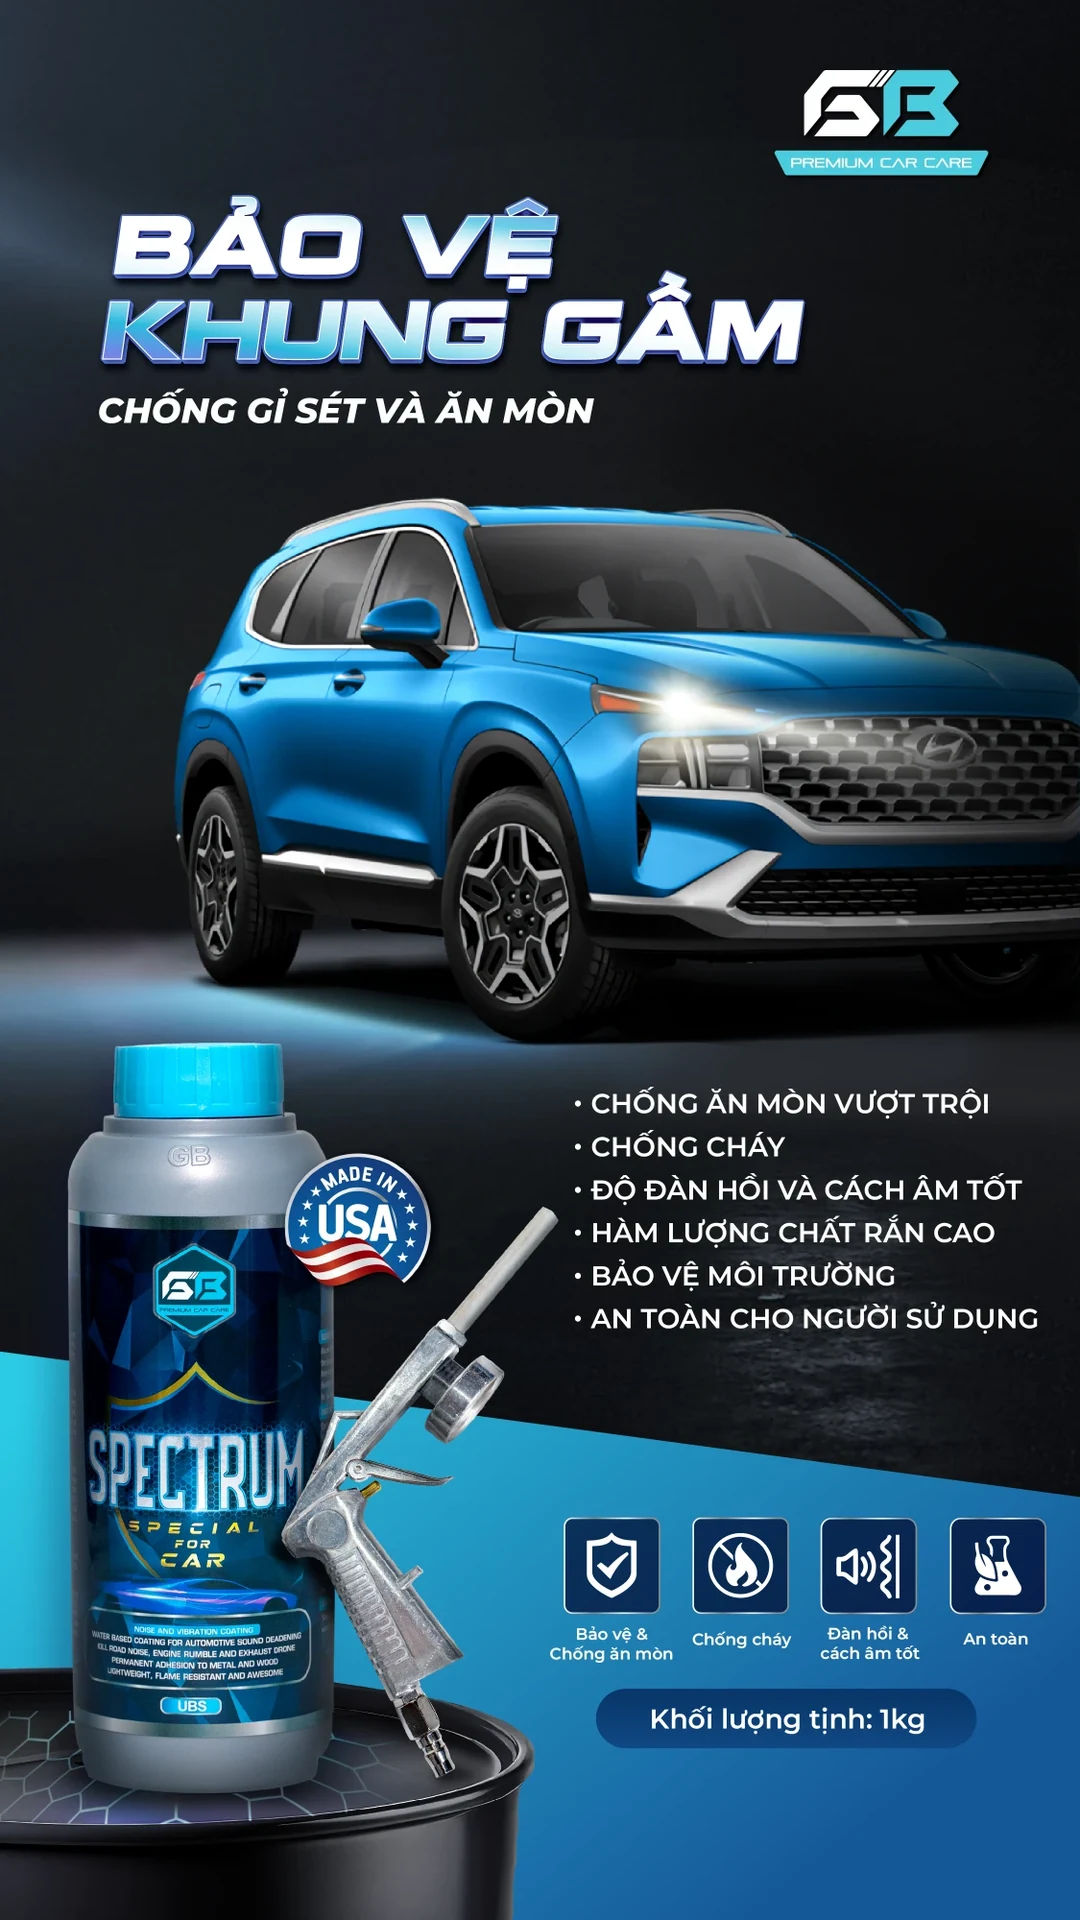
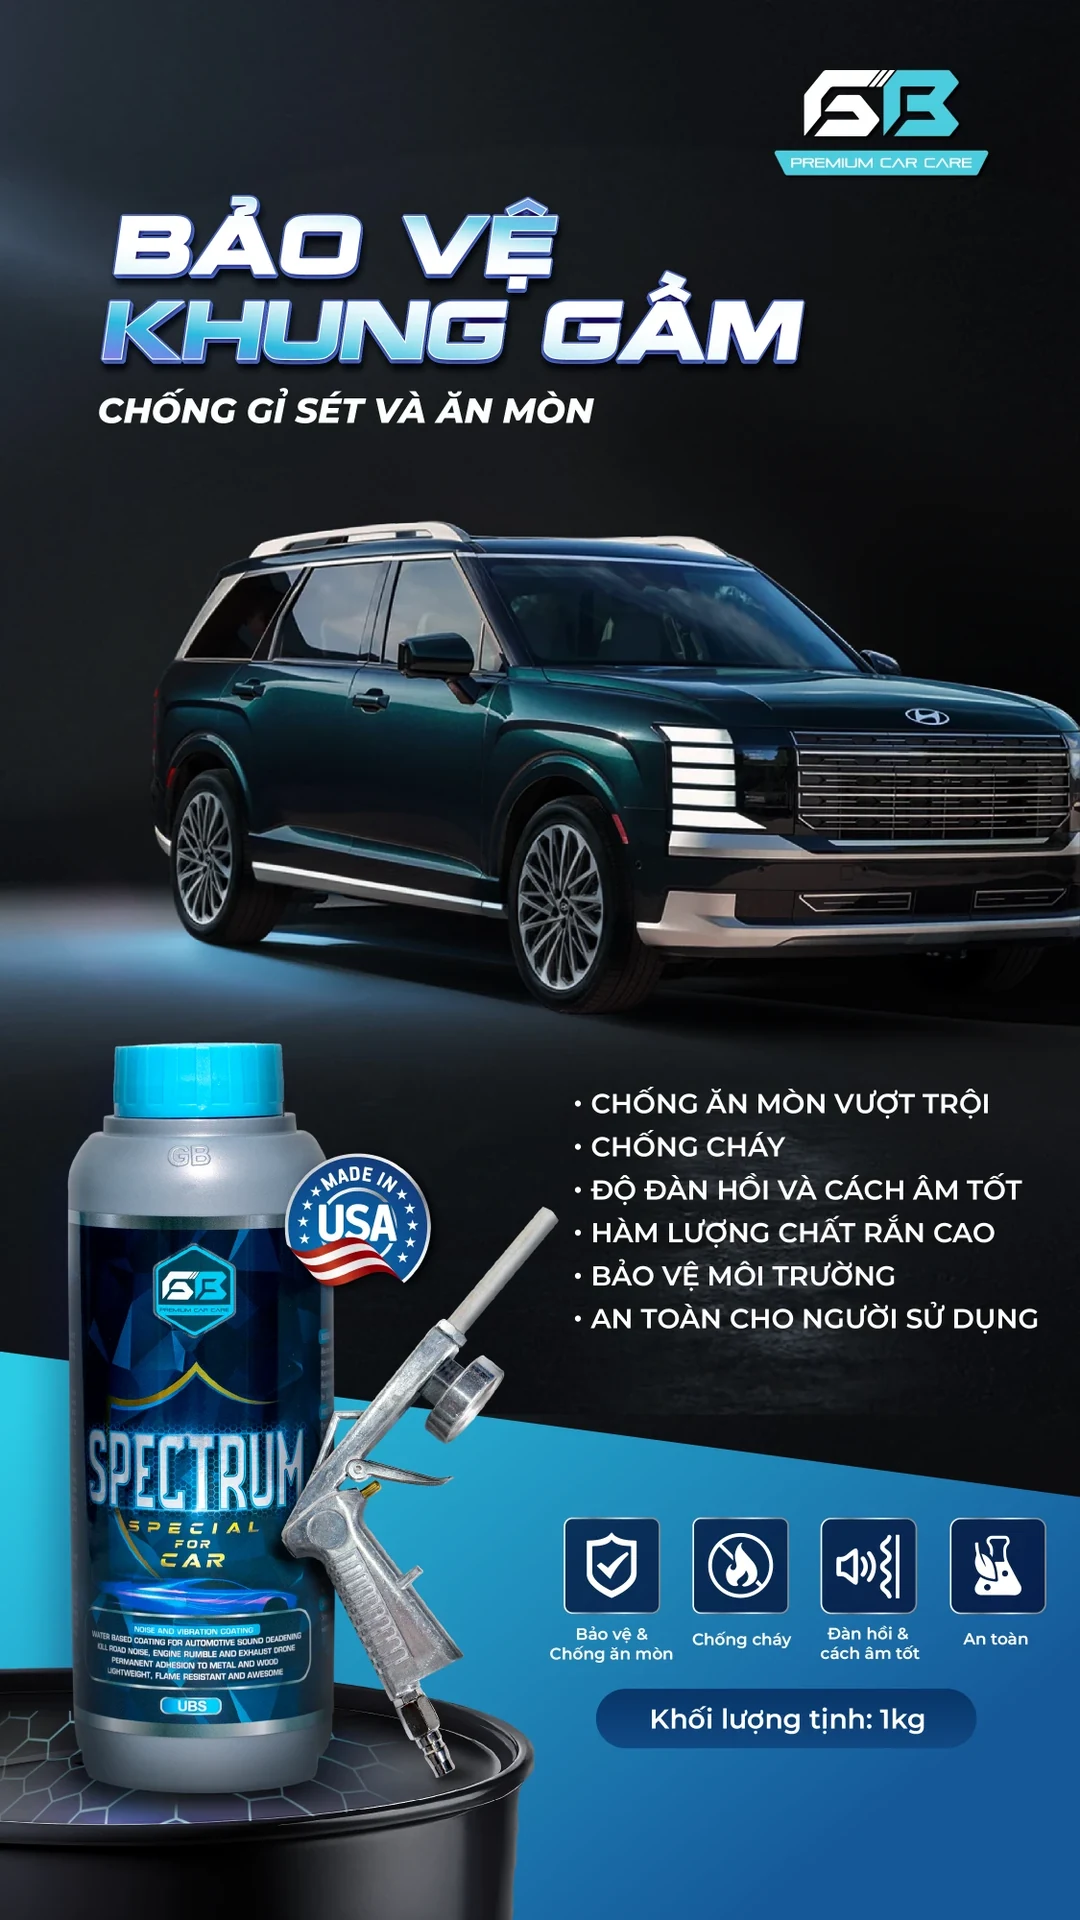
Spectrum poster updated (new car)

diff --git a/phu-gam.html b/phu-gam.html
@@ -123,7 +123,7 @@
 
       <section class="page" id="quang-pho" data-stop="Quang phổ" aria-label="Phủ gầm quang phổ GB Spectrum: sản phẩm với súng phun và thông tin">
         <div class="poster-grid">
-          <img class="poster" loading="lazy" decoding="async" src="assets/phu-gam/info/poster-spectrum.webp?v=4" width="1080" height="1920" alt="GB Spectrum bảo vệ khung gầm, chống gỉ sét và ăn mòn: chống ăn mòn vượt trội, chống cháy, đàn hồi và cách âm tốt, hàm lượng chất rắn cao, an toàn cho người sử dụng, sản xuất tại Mỹ, khối lượng tịnh 1 kg.">
+          <img class="poster" loading="lazy" decoding="async" src="assets/phu-gam/info/poster-spectrum.webp?v=5" width="1080" height="1920" alt="GB Spectrum bảo vệ khung gầm, chống gỉ sét và ăn mòn: chống ăn mòn vượt trội, chống cháy, đàn hồi và cách âm tốt, hàm lượng chất rắn cao, an toàn cho người sử dụng, sản xuất tại Mỹ, khối lượng tịnh 1 kg.">
           <img class="poster" loading="lazy" decoding="async" src="assets/phu-gam/info/poster-quang-pho.webp?v=4" width="1080" height="1920" alt="Phủ gầm quang phổ GB Spectrum: 100% gốc nước, sản xuất tại Mỹ, bảo hành trọn đời. Tính năng: cách âm, giảm ồn với công nghệ hạt siêu vi tiêu âm; chống thấm nước và chất ăn mòn; lớp phủ dày gấp 2 lần gốc dầu; bảo vệ gầm khỏi đá văng và va quẹt nhẹ.">
         </div>
       </section>
